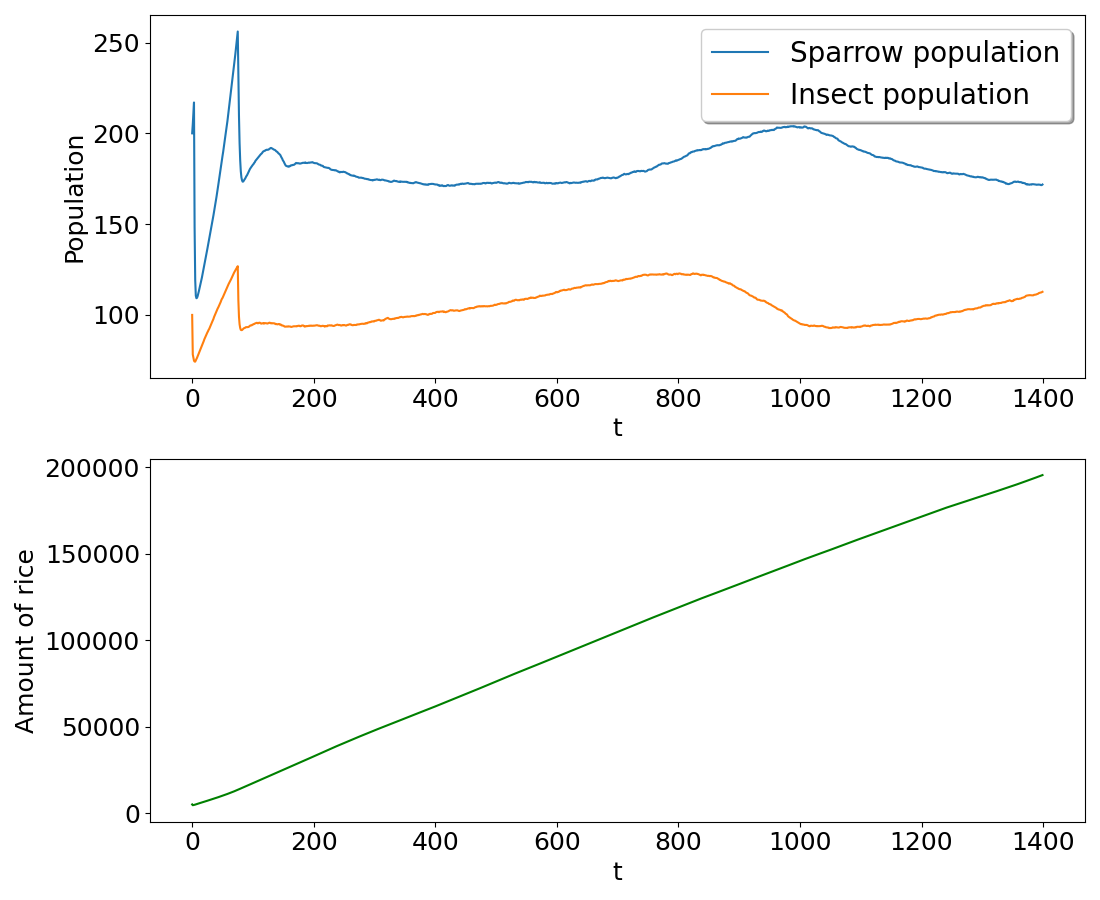
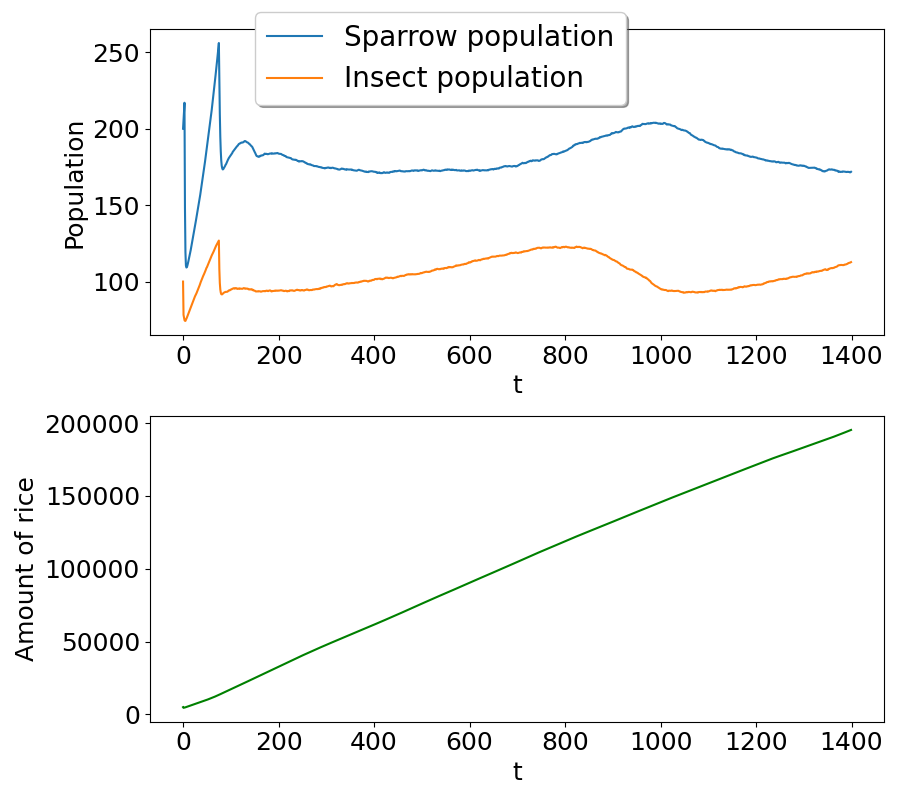
a

diff --git a/python_proj/plot_code.py b/python_proj/plot_code.py
@@ -4,9 +4,9 @@ import numpy as np
 timesteps = 1400
 time = np.reshape(np.arange(timesteps), [1, timesteps])
 
-avg_sparrow_pop = np.load('Data/sparrow_pop_SK=0.03IK=0.03, it = 100.npy')
-avg_insect_pop = np.load('Data/insect_pop_SK=0.03IK=0.03, it = 100.npy')
-avg_rice_pop = np.load('Data/rice_pop_SK=0.03IK=0.03, it = 100.npy')
+avg_sparrow_pop = np.load('Data/sparrow_pop_SK=0.0IK=0.0, it = 100.npy')
+avg_insect_pop = np.load('Data/insect_pop_SK=0.0IK=0.0, it = 100.npy')
+avg_rice_pop = np.load('Data/rice_pop_SK=0.0IK=0.0, it = 100.npy')
 
 
 

diff --git a/python_proj/ecosystem_simulation.py b/python_proj/ecosystem_simulation.py
@@ -8,8 +8,8 @@ from tqdm import trange
 
 def run_simulation():
     # Eco system parameters
-    kill_rate_sparrows = 0.02
-    kill_rate_insects = 0.0
+    kill_rate_sparrows = 0.017
+    kill_rate_insects = 0.03
 
     sparrow_growth_rate = 0.025
     sparrow_starvation_threshold = 3
@@ -26,7 +26,7 @@ def run_simulation():
 
     # Initialize
     nIterations = 100
-    timesteps = 1000
+    timesteps = 1400
     time = np.reshape(np.arange(timesteps), [1, timesteps])
     lattice_size = 100
     nSparrows = 200
